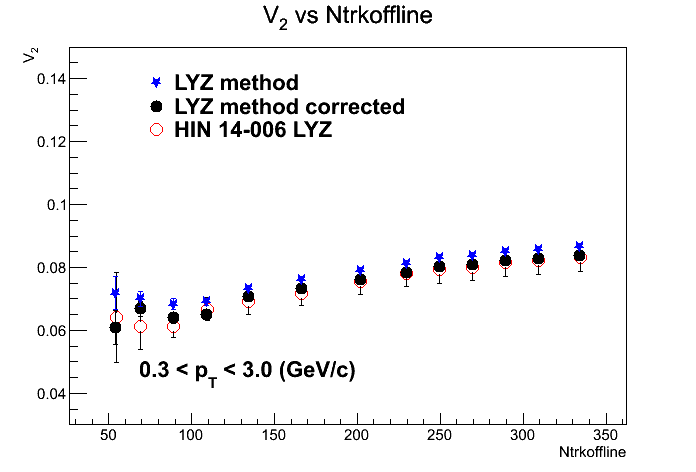
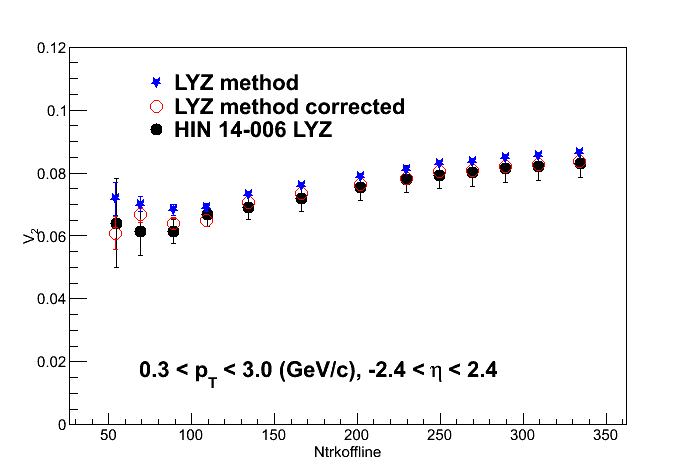
flow pres 5/18

diff --git a/flow/LYZ/v2/tracknormcpt03to6/plotV2vsNtrk.C b/flow/LYZ/v2/tracknormcpt03to6/plotV2vsNtrk.C
@@ -51,50 +51,52 @@ TGraphErrors *grProdcorr=new TGraphErrors(ntotbin,Ntrk,V2intcorr_Prod,0,V2err_Pr
 TGraphErrors *grV214006=new TGraphErrors(nbin,avgtrkbin,V214006,0,V214006err);
 TGraphErrors *grV24=new TGraphErrors(nbin24,avgtrkbin24,V24,0,V24err);
 TLatex *tl1 = new TLatex(0.2,0.3,Form("track normal cut"));
-TLatex *tl2 = new TLatex(0.2,0.2,Form("%.1f < p_{T} < %.1f (GeV/c)",0.3,3.0));
+TLatex *tl2 = new TLatex(0.2,0.2,Form("%.1f < p_{T} < %.1f (GeV/c), %.1f < #eta < %.1f ",0.3,3.0,-2.4,2.4));
 tl1->SetNDC();
 tl2->SetNDC();
-grV214006->SetTitle("V_{2} vs Ntrkoffline");
+grV214006->SetTitle("");
 grV214006->GetXaxis()->SetTitle("Ntrkoffline");
 grV214006->GetYaxis()->SetTitle("V_{2}");
+grV214006->GetXaxis()->CenterTitle();
+grV214006->GetYaxis()->CenterTitle();
 grV214006->SetMaximum(0.08);
 grV214006->SetMinimum(0.0);
 //grSum->SetMarkerSize(1);
-grProdcorr->SetMarkerSize(1.4);
 grV214006->SetMarkerSize(1.4);
+grV214006->SetMarkerColor(1);
+grV214006->SetMarkerStyle(20);
 //grSum->SetMarkerColor(1);
-grProdcorr->SetMarkerColor(1);
-//grSum->SetLineColor(1);
-grProdcorr->SetLineColor(1);
+grProdcorr->SetMarkerColor(2);
+grProdcorr->SetMarkerSize(1.4);
+grProdcorr->SetLineColor(2);
+grProdcorr->SetMarkerStyle(24);
+grProdsub->SetMarkerStyle(20);
+grProdsub->SetMarkerStyle(20);
+grProdsub->SetMarkerSize(1.4);
+grProdsub->SetMarkerColor(4);
 grProd->SetMarkerSize(1.4);
 grProd->SetMarkerColor(4);
 grProd->SetLineColor(4);
+grProd->SetMarkerStyle(20);
 grV24->SetMarkerSize(1.4);
 grV24->SetMarkerColor(4);
 grV24->SetMarkerStyle(29);
 grV24->SetLineColor(4);
-grV214006->SetMarkerColor(2);
 //grSum->SetMarkerStyle(20);
-grProdcorr->SetMarkerStyle(20);
-grProd->SetMarkerStyle(29);
-grProdsub->SetMarkerStyle(20);
-grProdsub->SetMarkerSize(1.4);
-grProdsub->SetMarkerColor(4);
-grV214006->SetMarkerStyle(20);
 TLegend *leg = new TLegend(0.2,0.7,0.4,0.85);
 leg->SetTextSize(0.05);
 leg->SetBorderSize(0);
 leg->SetFillColor(0);
 //leg->AddEntry(grSum,"LYZ Sum method","P");
 //leg->AddEntry(grProd,"LYZ method","P");
-leg->AddEntry(grProdcorr,"LYZ method corrected","P");
-leg->AddEntry(grV214006,"HIN-14-006","P");
-leg->AddEntry(grV24,"V2{4}","P");
+leg->AddEntry(grProdcorr,"V_{2}{LYZ}","P");
+leg->AddEntry(grV214006,"HIN-14-006 LYZ","P");
+leg->AddEntry(grV24,"V_{2}{4}","P");
 grV214006->Draw("AP");
 //grSum->Draw("Psame");
-//grProdcorr->Draw("Psame");
-grProd->Draw("Psame");
-grProdsub->Draw("Psame");
+grProdcorr->Draw("Psame");
+//grProd->Draw("Psame");
+//grProdsub->Draw("Psame");
 grV24->Draw("Psame");
 //tl1->Draw("same");
 tl2->Draw("same");

diff --git a/flow/LYZ/v2/PbPb2011MB/plotV2vsNtrk.C b/flow/LYZ/v2/PbPb2011MB/plotV2vsNtrk.C
@@ -42,29 +42,32 @@ TGraphErrors *grProd=new TGraphErrors(ntotbin,Ntrk,V2_Prod,0,V2err_Prod);
 TGraphErrors *grProdcorr=new TGraphErrors(ntotbin,Ntrk_v,V2intcorr_Prod,0,V2err_Prod);
 TGraphErrors *grV214006=new TGraphErrors(nbin,avgtrkbin,V214006,0,V214006err);
 TLatex *tl1 = new TLatex(0.2,0.3,Form("track normal cut"));
-TLatex *tl2 = new TLatex(0.2,0.2,Form("%.1f < p_{T} < %.1f (GeV/c)",0.3,3.0));
+TLatex *tl2 = new TLatex(0.2,0.2,Form("%.1f < p_{T} < %.1f (GeV/c), %.1f < #eta < %.1f ",0.3,3.0,-2.4,2.4));
 tl1->SetNDC();
 tl2->SetNDC();
-grV214006->SetTitle("V_{2} vs Ntrkoffline");
+grV214006->SetTitle("");
 grV214006->GetXaxis()->SetTitle("Ntrkoffline");
 grV214006->GetYaxis()->SetTitle("V_{2}");
-grV214006->SetMaximum(0.15);
-grV214006->SetMinimum(0.03);
+grV214006->GetXaxis()->CenterTitle();
+grV214006->GetYaxis()->CenterTitle();
+grV214006->SetMaximum(0.12);
+grV214006->SetMinimum(0);
 //grSum->SetMarkerSize(1);
 grProdcorr->SetMarkerSize(1.4);
 grV214006->SetMarkerSize(1.4);
 //grSum->SetMarkerColor(1);
-grProdcorr->SetMarkerColor(1);
+grProdcorr->SetMarkerColor(2);
 //grSum->SetLineColor(1);
-grProdcorr->SetLineColor(1);
+grProdcorr->SetLineColor(2);
 grProd->SetMarkerSize(1.4);
 grProd->SetMarkerColor(4);
 grProd->SetLineColor(4);
-grV214006->SetMarkerColor(2);
+grV214006->SetMarkerColor(1);
+grV214006->SetLineColor(1);
 //grSum->SetMarkerStyle(20);
-grProdcorr->SetMarkerStyle(20);
+grProdcorr->SetMarkerStyle(24);
 grProd->SetMarkerStyle(29);
-grV214006->SetMarkerStyle(24);
+grV214006->SetMarkerStyle(20);
 TLegend *leg = new TLegend(0.2,0.7,0.4,0.85);
 leg->SetTextSize(0.05);
 leg->SetBorderSize(0);
